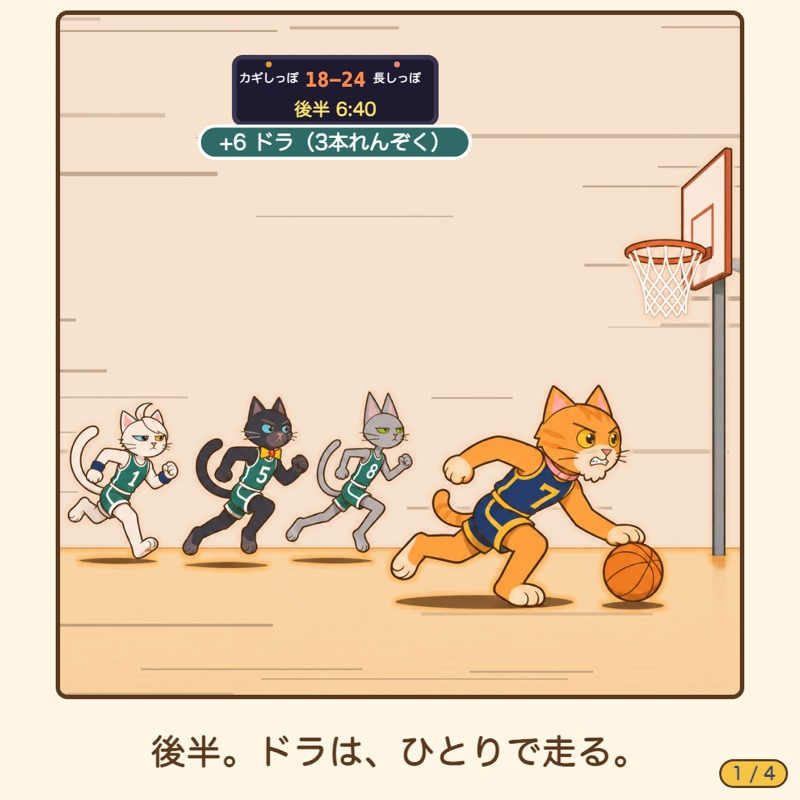
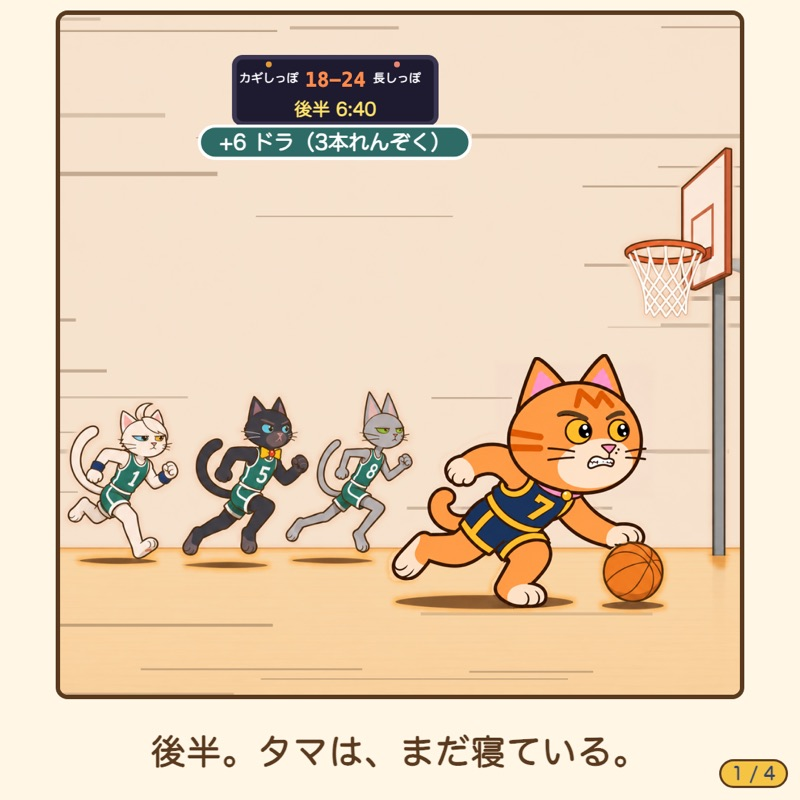
読むページ：第48話まで

Changed region(s): [[0.4688, 0.4375, 0.8125, 0.7812], [0.5, 0.9062, 0.7188, 0.9688], [0.3125, 0.9062, 0.4062, 0.9688]]

diff --git a/yomu/index.html b/yomu/index.html
@@ -86,11 +86,11 @@ footer a{color:var(--deep)}
 <article class="ep" id="ep30"><h2><span class="no">第30話</span>プチ修行①<small>11月7日</small></h2><div class="koma"><img src="img/030_1.jpg?v=1794456008" alt="第30話 1コマめ" loading="lazy" width="800" height="800"><img src="img/030_2.jpg?v=1794456008" alt="第30話 2コマめ" loading="lazy" width="800" height="800"><img src="img/030_3.jpg?v=1794456008" alt="第30話 3コマめ" loading="lazy" width="800" height="800"><img src="img/030_4.jpg?v=1794456008" alt="第30話 4コマめ" loading="lazy" width="800" height="800"></div><p class="cap">練習試合の前の夜。相手は3匹、こちらは2匹。<br>ドラは、ひとりで体育館にいた。</p></article>
 <article class="ep" id="ep31"><h2><span class="no">第31話</span>プチ修行②<small>11月7日</small></h2><div class="koma"><img src="img/031_1.jpg?v=1795106939" alt="第31話 1コマめ" loading="lazy" width="800" height="800"><img src="img/031_2.jpg?v=1795106939" alt="第31話 2コマめ" loading="lazy" width="800" height="800"><img src="img/031_3.jpg?v=1795106939" alt="第31話 3コマめ" loading="lazy" width="800" height="800"><img src="img/031_4.jpg?v=1795106939" alt="第31話 4コマめ" loading="lazy" width="800" height="800"></div><p class="cap">朝。<br>…ドラが、燃えてる。</p></article>
 <article class="ep" id="ep32"><h2><span class="no">第32話</span>練習試合①<small>11月8日</small></h2><div class="koma"><img src="img/032_1.jpg?v=1795106939" alt="第32話 1コマめ" loading="lazy" width="800" height="800"><img src="img/032_2.jpg?v=1795106939" alt="第32話 2コマめ" loading="lazy" width="800" height="800"><img src="img/032_3.jpg?v=1795106939" alt="第32話 3コマめ" loading="lazy" width="800" height="800"><img src="img/032_4.jpg?v=1795106939" alt="第32話 4コマめ" loading="lazy" width="800" height="800"></div><p class="cap">練習試合、はじまる。<br>【今の状況】カギしっぽ 8−2 長しっぽ（前半 6:40）<br>長しっぽの体育館で、3匹 対 2匹。<br>ドラが、先に走った。</p></article>
-<article class="ep" id="ep33"><h2><span class="no">第33話</span>練習試合②<small>11月8日</small></h2><div class="koma"><img src="img/033_1.jpg?v=1795107064" alt="第33話 1コマめ" loading="lazy" width="800" height="800"><img src="img/033_2.jpg?v=1795107064" alt="第33話 2コマめ" loading="lazy" width="800" height="800"><img src="img/033_3.jpg?v=1795107064" alt="第33話 3コマめ" loading="lazy" width="800" height="800"><img src="img/033_4.jpg?v=1794645812" alt="第33話 4コマめ" loading="lazy" width="800" height="800"></div><p class="cap">練習試合、前半。<br>【今の状況】カギしっぽ 8−8 長しっぽ（前半 5:30）<br>ツムジは、ボールを見ない。<br>よそ見のまま、追いつかれた。</p></article>
-<article class="ep" id="ep34"><h2><span class="no">第34話</span>練習試合③<small>11月8日</small></h2><div class="koma"><img src="img/034_1.jpg?v=1794456008" alt="第34話 1コマめ" loading="lazy" width="800" height="800"><img src="img/034_2.jpg?v=1794964276" alt="第34話 2コマめ" loading="lazy" width="800" height="800"><img src="img/034_3.jpg?v=1794645812" alt="第34話 3コマめ" loading="lazy" width="800" height="800"><img src="img/034_4.jpg?v=1794645812" alt="第34話 4コマめ" loading="lazy" width="800" height="800"></div><p class="cap">練習試合、前半のまんなか。<br>【今の状況】カギしっぽ 10−8 長しっぽ（前半 4:20）<br>一度だけ、リードした。<br>でも、パスしようとしたら…</p></article>
-<article class="ep" id="ep35"><h2><span class="no">第35話</span>練習試合④<small>11月9日</small></h2><div class="koma"><img src="img/035_1.jpg?v=1795106943" alt="第35話 1コマめ" loading="lazy" width="800" height="800"><img src="img/035_2.jpg?v=1794456009" alt="第35話 2コマめ" loading="lazy" width="800" height="800"><img src="img/035_3.jpg?v=1794645812" alt="第35話 3コマめ" loading="lazy" width="800" height="800"><img src="img/035_4.jpg?v=1794645812" alt="第35話 4コマめ" loading="lazy" width="800" height="800"></div><p class="cap">練習試合、前半のおわり。<br>【今の状況】カギしっぽ 12−24 長しっぽ（前半おわり）<br>パスする仲間は、寝ている。<br>3匹の長しっぽは、止まらない。</p></article>
-<article class="ep" id="ep36"><h2><span class="no">第36話</span>練習試合⑤<small>11月9日</small></h2><div class="koma"><img src="img/036_1.jpg?v=1794964276" alt="第36話 1コマめ" loading="lazy" width="800" height="800"><img src="img/036_2.jpg?v=1794456009" alt="第36話 2コマめ" loading="lazy" width="800" height="800"><img src="img/036_3.jpg?v=1794456009" alt="第36話 3コマめ" loading="lazy" width="800" height="800"><img src="img/036_4.jpg?v=1794456009" alt="第36話 4コマめ" loading="lazy" width="800" height="800"></div><p class="cap">練習試合、後半。<br>【今の状況】カギしっぽ 18−24 長しっぽ（後半 6:10）<br>ドラが、ひとりで6点差まで追い上げる。<br>しっぽも、体の一部。</p></article>
-<article class="ep" id="ep37"><h2><span class="no">第37話</span>練習試合⑥<small>11月9日</small></h2><div class="koma"><img src="img/037_1.jpg?v=1795106943" alt="第37話 1コマめ" loading="lazy" width="800" height="800"><img src="img/037_2.jpg?v=1794456009" alt="第37話 2コマめ" loading="lazy" width="800" height="800"><img src="img/037_3.jpg?v=1794456009" alt="第37話 3コマめ" loading="lazy" width="800" height="800"><img src="img/037_4.jpg?v=1794456009" alt="第37話 4コマめ" loading="lazy" width="800" height="800"></div><p class="cap">練習試合、最後。<br>【今の状況】カギしっぽ 20−50 長しっぽ（試合終了）<br>ツムジは、最後までゴールを見なかった。<br>完敗。</p></article>
+<article class="ep" id="ep33"><h2><span class="no">第33話</span>練習試合②<small>11月8日</small></h2><div class="koma"><img src="img/033_1.jpg?v=1795107064" alt="第33話 1コマめ" loading="lazy" width="800" height="800"><img src="img/033_2.jpg?v=1795107064" alt="第33話 2コマめ" loading="lazy" width="800" height="800"><img src="img/033_3.jpg?v=1795107064" alt="第33話 3コマめ" loading="lazy" width="800" height="800"><img src="img/033_4.jpg?v=1795147553" alt="第33話 4コマめ" loading="lazy" width="800" height="800"></div><p class="cap">練習試合、前半。<br>【今の状況】カギしっぽ 8−8 長しっぽ（前半 5:30）<br>ツムジは、ボールを見ない。<br>よそ見のまま、追いつかれた。</p></article>
+<article class="ep" id="ep34"><h2><span class="no">第34話</span>練習試合③<small>11月8日</small></h2><div class="koma"><img src="img/034_1.jpg?v=1793968729" alt="第34話 1コマめ" loading="lazy" width="800" height="800"><img src="img/034_2.jpg?v=1794781430" alt="第34話 2コマめ" loading="lazy" width="800" height="800"><img src="img/034_3.jpg?v=1795147554" alt="第34話 3コマめ" loading="lazy" width="800" height="800"><img src="img/034_4.jpg?v=1795147554" alt="第34話 4コマめ" loading="lazy" width="800" height="800"></div><p class="cap">練習試合、前半のまんなか。<br>【今の状況】カギしっぽ 10−8 長しっぽ（前半 4:20）<br>一度だけ、リードした。<br>でも、パスしようとしたら…</p></article>
+<article class="ep" id="ep35"><h2><span class="no">第35話</span>練習試合④<small>11月9日</small></h2><div class="koma"><img src="img/035_1.jpg?v=1795165725" alt="第35話 1コマめ" loading="lazy" width="800" height="800"><img src="img/035_2.jpg?v=1794130107" alt="第35話 2コマめ" loading="lazy" width="800" height="800"><img src="img/035_3.jpg?v=1795165725" alt="第35話 3コマめ" loading="lazy" width="800" height="800"><img src="img/035_4.jpg?v=1795165725" alt="第35話 4コマめ" loading="lazy" width="800" height="800"></div><p class="cap">練習試合、前半のおわり。<br>【今の状況】カギしっぽ 12−24 長しっぽ（前半おわり）<br>パスする仲間は、寝ている。<br>3匹の長しっぽは、止まらない。</p></article>
+<article class="ep" id="ep36"><h2><span class="no">第36話</span>練習試合⑤<small>11月9日</small></h2><div class="koma"><img src="img/036_1.jpg?v=1795147554" alt="第36話 1コマめ" loading="lazy" width="800" height="800"><img src="img/036_2.jpg?v=1795147554" alt="第36話 2コマめ" loading="lazy" width="800" height="800"><img src="img/036_3.jpg?v=1795147554" alt="第36話 3コマめ" loading="lazy" width="800" height="800"><img src="img/036_4.jpg?v=1795147554" alt="第36話 4コマめ" loading="lazy" width="800" height="800"></div><p class="cap">練習試合、後半。<br>【今の状況】カギしっぽ 18−24 長しっぽ（後半 6:10）<br>ドラが、ひとりで6点差まで追い上げる。<br>しっぽも、体の一部。</p></article>
+<article class="ep" id="ep37"><h2><span class="no">第37話</span>練習試合⑥<small>11月9日</small></h2><div class="koma"><img src="img/037_1.jpg?v=1795175303" alt="第37話 1コマめ" loading="lazy" width="800" height="800"><img src="img/037_2.jpg?v=1795175303" alt="第37話 2コマめ" loading="lazy" width="800" height="800"><img src="img/037_3.jpg?v=1795175303" alt="第37話 3コマめ" loading="lazy" width="800" height="800"><img src="img/037_4.jpg?v=1795175303" alt="第37話 4コマめ" loading="lazy" width="800" height="800"></div><p class="cap">練習試合、最後。<br>【今の状況】カギしっぽ 20−50 長しっぽ（試合終了）<br>ツムジは、最後までゴールを見なかった。<br>完敗。</p></article>
 <article class="ep" id="ep38"><h2><span class="no">第38話</span>修行①<small>11月10日</small></h2><div class="koma"><img src="img/038_1.jpg?v=1795070755" alt="第38話 1コマめ" loading="lazy" width="800" height="800"><img src="img/038_2.jpg?v=1794959316" alt="第38話 2コマめ" loading="lazy" width="800" height="800"><img src="img/038_3.jpg?v=1795070755" alt="第38話 3コマめ" loading="lazy" width="800" height="800"><img src="img/038_4.jpg?v=1795070755" alt="第38話 4コマめ" loading="lazy" width="800" height="800"></div><p class="cap">練習試合は、20−50。<br>20点は、ぜんぶドラでした。<br>次の朝、ちゃぶ台に手紙が1通。<br>（つづく）</p></article>
 <article class="ep" id="ep39"><h2><span class="no">第39話</span>修行②<small>11月11日</small></h2><div class="koma"><img src="img/039_1.jpg?v=1795070755" alt="第39話 1コマめ" loading="lazy" width="800" height="800"><img src="img/039_2.jpg?v=1795070755" alt="第39話 2コマめ" loading="lazy" width="800" height="800"><img src="img/039_3.jpg?v=1795070755" alt="第39話 3コマめ" loading="lazy" width="800" height="800"><img src="img/039_4.jpg?v=1795070755" alt="第39話 4コマめ" loading="lazy" width="800" height="800"></div><p class="cap">ドラ、山で修行中。<br>滝に打たれて、心をしずめます。<br>タマは、家でおるすばんです。<br>たぶん。</p></article>
 <article class="ep" id="ep40"><h2><span class="no">第40話</span>修行③<small>11月12日</small></h2><div class="koma"><img src="img/040_1.jpg?v=1795070755" alt="第40話 1コマめ" loading="lazy" width="800" height="800"><img src="img/040_2.jpg?v=1795070755" alt="第40話 2コマめ" loading="lazy" width="800" height="800"><img src="img/040_3.jpg?v=1795070755" alt="第40話 3コマめ" loading="lazy" width="800" height="800"><img src="img/040_4.jpg?v=1795070755" alt="第40話 4コマめ" loading="lazy" width="800" height="800"></div><p class="cap">木の枝に、つるの輪。<br>地面に、大きな線。<br>ひとりで、何度も。</p></article>
